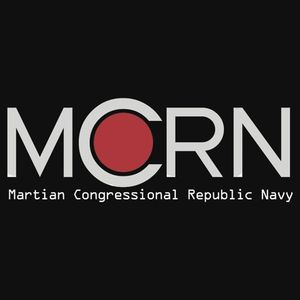
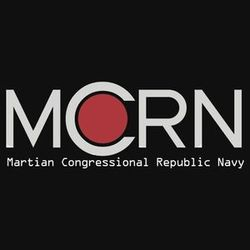
resizing images

diff --git a/2019/the-expanse/index.html b/2019/the-expanse/index.html
@@ -1,1 +1,1 @@
-<!DOCTYPE html> <html> <head> <meta charset="utf-8"> <meta name="apple-mobile-web-app-capable" content="yes"> <meta http-equiv="X-UA-Compatible" content="IE=edge"> <meta name="viewport" content="width=device-width, initial-scale=1"> <title> The Expanse | damaex17space </title> <meta name="description" content=" This is the future the way it was supposed to be "> <meta name="keywords" content="expanse scifi books tvshow"> <meta name="HandheldFriendly" content="True"> <meta name="MobileOptimized" content="320"> <!-- Social: Facebook / Open Graph --> <meta property="og:type" content="article"> <meta property="article:author" content="Maximilian Weber"> <meta property="article:section" content=""> <meta property="article:tag" content="expanse scifi books tvshow"> <meta property="article:published_time" content="2019-03-29 00:00:00 +0000"> <meta property="og:url" content="https://damaex17.github.io/2019/the-expanse/"> <meta property="og:title" content=" The Expanse | damaex17space "> <meta property="og:image" content="https://damaex17.github.io"> <meta property="og:description" content=" This is the future the way it was supposed to be "> <meta property="og:site_name" content="Maximilian Weber"> <meta property="og:locale" content="en_US"> <!-- Social: Twitter --> <meta name="twitter:card" content="summary_large_image"> <meta name="twitter:site" content=""> <meta name="twitter:title" content=" The Expanse | damaex17space "> <meta name="twitter:description" content=" This is the future the way it was supposed to be "> <meta name="twitter:image:src" content="https://damaex17.github.io"> <!-- Social: Google+ / Schema.org --> <meta itemprop="name" content=" The Expanse | damaex17space "> <meta itemprop="description" content=" This is the future the way it was supposed to be "> <meta itemprop="image" content="https://damaex17.github.io"> <!-- Canonical link tag --> <link rel="canonical" href="https://damaex17.github.io/2019/the-expanse/"> <link rel="alternate" type="application/rss+xml" title="damaex17space" href="https://damaex17.github.io/feed.xml"> <!-- rel prev and next --> <link rel="stylesheet" href="https://damaex17.github.io/assets/css/main.css"> </head> <body> <main class="wrapper"> <header class="site-header"> <nav class="nav"> <div class="container"> <h1 class="logo"><a href="https://damaex17.github.io/">damaex17<span>space</span></a></h1> <ul class="navbar"> <li><a href="https://damaex17.github.io/about">About me</a></li> <li><a href="https://damaex17.github.io/feed.xml" target="_blank">RSS</a></li> </ul> </div> </nav> </header> <article class="post container" itemscope itemtype="http://schema.org/BlogPosting"> <header class="post-header"> <p class="post-meta"><time datetime="2019-03-29T00:00:00+00:00" itemprop="datePublished">Mar 29, 2019</time></p> <h1 class="post-title" itemprop="name headline">The Expanse</h1> </header> <div class="post-content" itemprop="articleBody"> <h3 id="setting">Setting</h3> <p>The Expanse is set in the near future in which humanity has colonized most of the solary system, but does not have faster than light travel travel. The fractions fight for resources and power and the tensions are rising.</p> <p><img src="/assets/images/expanse_1.jpg" alt="" class="center" /></p> <h1 id="earth---the-united-nations">Earth - The United Nations</h1> <p><img src="/assets/images/expanse_un.jpg" alt="" class="center" /></p> <p>By the mid and late 21st century, humanity’s national governments had been confronted with overpopulation and the resulting precarious state of Earth’s ecosystem. They united under a global government. The United Nations.</p> <p>The UN begun to establish colonies on the other planets and moons in the Sol system, the most notable of these being Luna and Mars.</p> <p>In the 22nd century the colonial government of Mars demanded independence. The United Nations refused and war was imminent. Mars offered to share the revolutionary Epstein drive technology in exchange for independence. The UN agree in order to avoid Mars having a tactical advantage in spaceship technology.</p> <p>Now free to expand into the outer Sol system, the UN established colonies on several Jovian moons, as well as Titan.</p> <h1 id="mars---martian-congressional-republic">Mars - Martian Congressional Republic</h1> <p><img src="/assets/images/expanse_mcrn.jpg" alt="" class="center" /></p> <p>Originally a colony of Earth and in the beginning highly depending on the blue planet, three generations after the first settlers landed, Mars became largely self-sustaining. Mars also became a leader in environmental technology and research as well as the design and manufacture of advanced spaceships.</p> <p>Many of the colonists on Mars during this period wanted to secede from Earth, comparing themselves to the American colonies of the 17th century. If not for Solomon Epstein and his accidental invention of what would come to be called the Epstein Drive, war between the planet and its colony may have been inevitable. Mars had a major technological advantage over Earth. The new ships could go further and faster than anything that had been built before, while using significantly less fuel, opening up the rest of the solar system for exploration and settlement.</p> <p>The Martian government offered the UN access to the Epstein Drive in exchange for granting Mars its sovereignty. The UN accepted and the Martian Congressional Republic was formed.</p> <h1 id="the-belt---outer-planets-alliance-opa">The Belt - Outer Planets Alliance (OPA)</h1> <p><img src="/assets/images/expanse_opa.jpg" alt="" class="center" /></p> <p>The Asteroid Belt, also known as the Main Asteroid Belt as means to distinguish it from the Kuiper Belt, often referred to as just The Belt, is a circumstellar disc located in the region of the Sol system between the orbits of the planets Mars and Jupiter. The Belt was colonized by humans in the 21st century. Humans born in the Belt, called Belters, are thinner and taller than humans from the inner planets due to lower gravity. The population of the Belt is estimated at around 50 million according to inner planets censuses. The Outer Planets Alliance (OPA) is a loosely affiliated group uniting under a core common ideology that started as a labor union or advocacy group, fighting for the interests of inhabitants of the Belt. Often in direct conflict with the inner planets.</p> </div> <span>[ <a href="/tag/expanse"><code class="highligher-rouge"><nobr>expanse</nobr></code>&nbsp;</a> <a href="/tag/scifi"><code class="highligher-rouge"><nobr>scifi</nobr></code>&nbsp;</a> ]</span> </article> <footer class="site-footer"> <div class="container"> <small class="block">&copy; 2019 Maximilian Weber &middot; &lt;/&gt; Powered by <a href="https://jekyllrb.com/">Jekyll</a> </small> </div> </footer> </main> <script type="text/javascript"> var _gaq = _gaq || []; _gaq.push(['_setAccount', 'UA-138082100-1']); _gaq.push(['_trackPageview']); (function() { var ga = document.createElement('script'); ga.type = 'text/javascript'; ga.async = true; ga.src = ('https:' == document.location.protocol ? 'https://ssl' : 'http://www') + '.google-analytics.com/ga.js'; var s = document.getElementsByTagName('script')[0]; s.parentNode.insertBefore(ga, s); })(); </script> </body> </html>
+<!DOCTYPE html> <html> <head> <meta charset="utf-8"> <meta name="apple-mobile-web-app-capable" content="yes"> <meta http-equiv="X-UA-Compatible" content="IE=edge"> <meta name="viewport" content="width=device-width, initial-scale=1"> <title> The Expanse | damaex17space </title> <meta name="description" content=" This is the future the way it was supposed to be "> <meta name="keywords" content="expanse scifi books tvshow"> <meta name="HandheldFriendly" content="True"> <meta name="MobileOptimized" content="320"> <!-- Social: Facebook / Open Graph --> <meta property="og:type" content="article"> <meta property="article:author" content="Maximilian Weber"> <meta property="article:section" content=""> <meta property="article:tag" content="expanse scifi books tvshow"> <meta property="article:published_time" content="2019-03-29 00:00:00 +0000"> <meta property="og:url" content="https://damaex17.github.io/2019/the-expanse/"> <meta property="og:title" content=" The Expanse | damaex17space "> <meta property="og:image" content="https://damaex17.github.io"> <meta property="og:description" content=" This is the future the way it was supposed to be "> <meta property="og:site_name" content="Maximilian Weber"> <meta property="og:locale" content="en_US"> <!-- Social: Twitter --> <meta name="twitter:card" content="summary_large_image"> <meta name="twitter:site" content=""> <meta name="twitter:title" content=" The Expanse | damaex17space "> <meta name="twitter:description" content=" This is the future the way it was supposed to be "> <meta name="twitter:image:src" content="https://damaex17.github.io"> <!-- Social: Google+ / Schema.org --> <meta itemprop="name" content=" The Expanse | damaex17space "> <meta itemprop="description" content=" This is the future the way it was supposed to be "> <meta itemprop="image" content="https://damaex17.github.io"> <!-- Canonical link tag --> <link rel="canonical" href="https://damaex17.github.io/2019/the-expanse/"> <link rel="alternate" type="application/rss+xml" title="damaex17space" href="https://damaex17.github.io/feed.xml"> <!-- rel prev and next --> <link rel="stylesheet" href="https://damaex17.github.io/assets/css/main.css"> </head> <body> <main class="wrapper"> <header class="site-header"> <nav class="nav"> <div class="container"> <h1 class="logo"><a href="https://damaex17.github.io/">damaex17<span>space</span></a></h1> <ul class="navbar"> <li><a href="https://damaex17.github.io/about">About me</a></li> <li><a href="https://damaex17.github.io/feed.xml" target="_blank">RSS</a></li> </ul> </div> </nav> </header> <article class="post container" itemscope itemtype="http://schema.org/BlogPosting"> <header class="post-header"> <p class="post-meta"><time datetime="2019-03-29T00:00:00+00:00" itemprop="datePublished">Mar 29, 2019</time></p> <h1 class="post-title" itemprop="name headline">The Expanse</h1> </header> <div class="post-content" itemprop="articleBody"> <h3 id="setting">Setting</h3> <p>The Expanse is set in the near future in which humanity has colonized most of the solary system, but does not have faster than light travel travel. The fractions fight for resources and power and the tensions are rising.</p> <p><img src="/assets/images/expanse_1.jpg" alt="" class="center" /></p> <h1 id="earth---the-united-nations">Earth - The United Nations</h1> <p><img src="/assets/images/expanse_un.jpg" align="right" /></p> <p>By the mid and late 21st century, humanity’s national governments had been confronted with overpopulation and the resulting precarious state of Earth’s ecosystem. They united under a global government. The United Nations.</p> <p>The UN begun to establish colonies on the other planets and moons in the Sol system, the most notable of these being Luna and Mars.</p> <p>In the 22nd century the colonial government of Mars demanded independence. The United Nations refused and war was imminent. Mars offered to share the revolutionary Epstein drive technology in exchange for independence. The UN agree in order to avoid Mars having a tactical advantage in spaceship technology.</p> <p>Now free to expand into the outer Sol system, the UN established colonies on several Jovian moons, as well as Titan.</p> <h1 id="mars---martian-congressional-republic">Mars - Martian Congressional Republic</h1> <p><img src="/assets/images/expanse_mcrn.jpg" align="right" /></p> <p>Originally a colony of Earth and in the beginning highly depending on the blue planet, three generations after the first settlers landed, Mars became largely self-sustaining. Mars also became a leader in environmental technology and research as well as the design and manufacture of advanced spaceships.</p> <p>Many of the colonists on Mars during this period wanted to secede from Earth, comparing themselves to the American colonies of the 17th century. If not for Solomon Epstein and his accidental invention of what would come to be called the Epstein Drive, war between the planet and its colony may have been inevitable. Mars had a major technological advantage over Earth. The new ships could go further and faster than anything that had been built before, while using significantly less fuel, opening up the rest of the solar system for exploration and settlement.</p> <p>The Martian government offered the UN access to the Epstein Drive in exchange for granting Mars its sovereignty. The UN accepted and the Martian Congressional Republic was formed.</p> <h1 id="the-belt---outer-planets-alliance-opa">The Belt - Outer Planets Alliance (OPA)</h1> <p><img src="/assets/images/expanse_opa.jpg" align="right" /></p> <p>The Asteroid Belt, also known as the Main Asteroid Belt as means to distinguish it from the Kuiper Belt, often referred to as just The Belt, is a circumstellar disc located in the region of the Sol system between the orbits of the planets Mars and Jupiter. The Belt was colonized by humans in the 21st century. Humans born in the Belt, called Belters, are thinner and taller than humans from the inner planets due to lower gravity. The population of the Belt is estimated at around 50 million according to inner planets censuses. The Outer Planets Alliance (OPA) is a loosely affiliated group uniting under a core common ideology that started as a labor union or advocacy group, fighting for the interests of inhabitants of the Belt. Often in direct conflict with the inner planets.</p> </div> <span>[ <a href="/tag/expanse"><code class="highligher-rouge"><nobr>expanse</nobr></code>&nbsp;</a> <a href="/tag/scifi"><code class="highligher-rouge"><nobr>scifi</nobr></code>&nbsp;</a> ]</span> </article> <footer class="site-footer"> <div class="container"> <small class="block">&copy; 2019 Maximilian Weber &middot; &lt;/&gt; Powered by <a href="https://jekyllrb.com/">Jekyll</a> </small> </div> </footer> </main> <script type="text/javascript"> var _gaq = _gaq || []; _gaq.push(['_setAccount', 'UA-138082100-1']); _gaq.push(['_trackPageview']); (function() { var ga = document.createElement('script'); ga.type = 'text/javascript'; ga.async = true; ga.src = ('https:' == document.location.protocol ? 'https://ssl' : 'http://www') + '.google-analytics.com/ga.js'; var s = document.getElementsByTagName('script')[0]; s.parentNode.insertBefore(ga, s); })(); </script> </body> </html>
